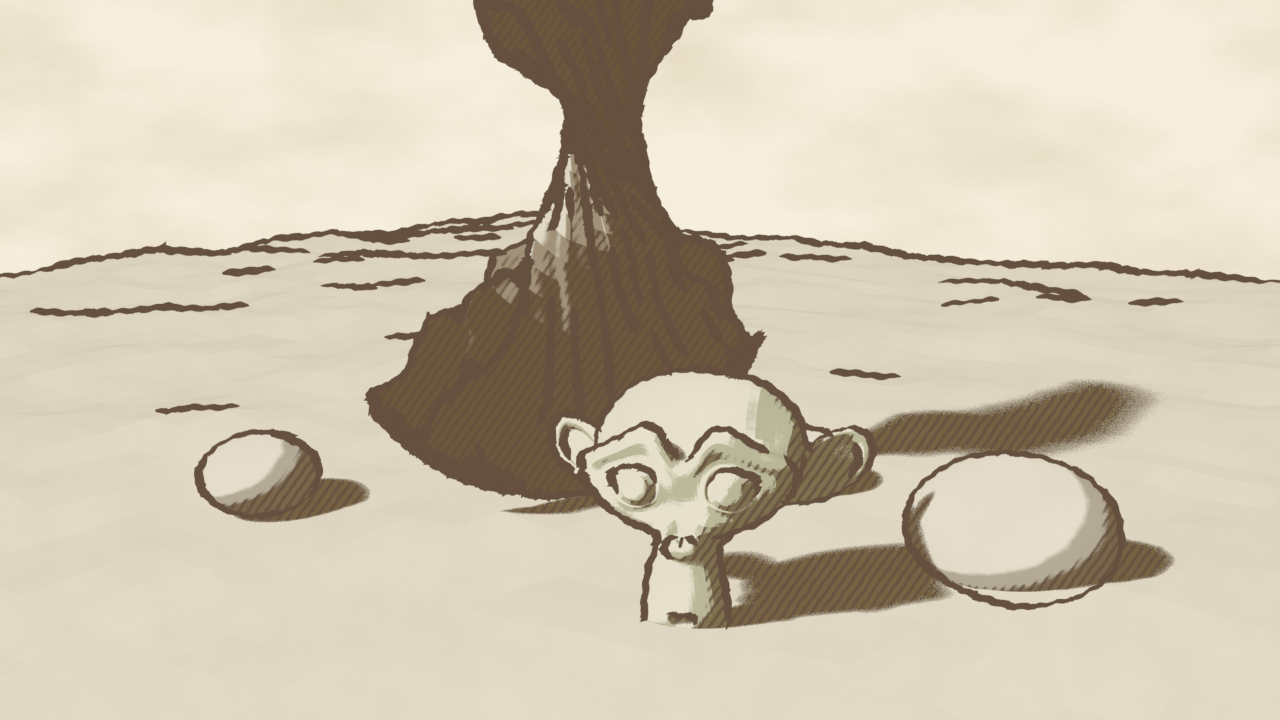
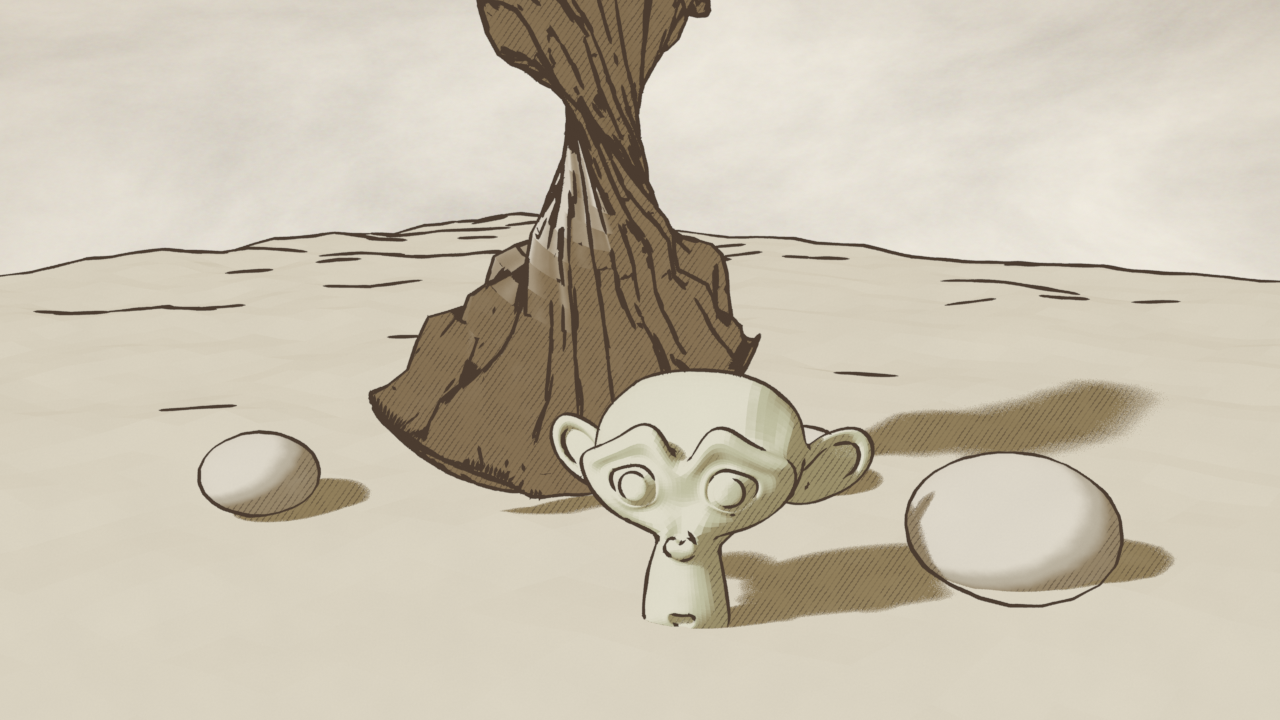
Rackham shader: thin sharp pen lines, softer wash, mottled background
- Freestyle: thinner near-black line with subtle wobble, suggestive
  contours for interior form lines
- Softer tonal bands and lighter umber shadows
- Finer, broken hatching limited to the deepest shadows
- World: mottled grey-beige wash with vignette

Claude-Session: https://claude.ai/code/session_01RtfpRx8b54UQLhfEZ4QY4B

diff --git a/blender/rackham_shader.py b/blender/rackham_shader.py
@@ -26,9 +26,9 @@ import bpy
 GROUP_NAME = "Rackham Ink & Wash"
 LINESTYLE_NAME = "Rackham Pen"
 
-PAPER = (0.92, 0.86, 0.72, 1.0)   # 黄ばんだヴェラム
-INK = (0.13, 0.08, 0.05, 1.0)     # 焦げ茶のインク
-UMBER = (0.42, 0.34, 0.24, 1.0)   # 影色（泥っぽいアンバー）
+PAPER = (0.90, 0.86, 0.77, 1.0)   # 黄ばんだヴェラム
+INK = (0.07, 0.045, 0.03, 1.0)    # ほぼ黒の焦げ茶インク
+UMBER = (0.62, 0.53, 0.40, 1.0)   # 影色（薄いアンバーのウォッシュ）
 
 
 # --------------------------------------------------------------------------
@@ -92,22 +92,23 @@ GROUP_INPUTS = [
     ("Paper Color", "NodeSocketColor", PAPER, None, None),
     ("Ink Color", "NodeSocketColor", INK, None, None),
     ("Shadow Tint", "NodeSocketColor", UMBER, None, None),
-    ("Desaturate", "NodeSocketFloat", 0.4, 0.0, 1.0),
-    ("Highlight Wash", "NodeSocketFloat", 0.3, 0.0, 1.0),
+    ("Desaturate", "NodeSocketFloat", 0.3, 0.0, 1.0),
+    ("Highlight Wash", "NodeSocketFloat", 0.45, 0.0, 1.0),
     ("Light Threshold", "NodeSocketFloat", 0.62, 0.0, 1.0),
-    ("Shadow Threshold", "NodeSocketFloat", 0.30, 0.0, 1.0),
-    ("Band Softness", "NodeSocketFloat", 0.05, 0.001, 0.5),
+    ("Shadow Threshold", "NodeSocketFloat", 0.34, 0.0, 1.0),
+    ("Band Softness", "NodeSocketFloat", 0.14, 0.001, 0.5),
     ("Wash Variation", "NodeSocketFloat", 0.22, 0.0, 1.0),
     ("Wash Scale", "NodeSocketFloat", 3.0, 0.0, 100.0),
     ("Granulation", "NodeSocketFloat", 0.12, 0.0, 1.0),
     ("Edge Darkening", "NodeSocketFloat", 0.35, 0.0, 1.0),
-    ("Hatch Threshold", "NodeSocketFloat", 0.36, 0.0, 1.0),
-    ("Cross Hatch Threshold", "NodeSocketFloat", 0.16, 0.0, 1.0),
-    ("Hatch Density", "NodeSocketFloat", 30.0, 1.0, 500.0),
-    ("Hatch Width", "NodeSocketFloat", 0.28, 0.0, 1.0),
-    ("Hatch Wobble", "NodeSocketFloat", 1.5, 0.0, 20.0),
-    ("Hatch Strength", "NodeSocketFloat", 0.85, 0.0, 1.0),
-    ("Paper Grain", "NodeSocketFloat", 0.10, 0.0, 1.0),
+    ("Hatch Threshold", "NodeSocketFloat", 0.26, 0.0, 1.0),
+    ("Cross Hatch Threshold", "NodeSocketFloat", 0.10, 0.0, 1.0),
+    ("Hatch Density", "NodeSocketFloat", 45.0, 1.0, 500.0),
+    ("Hatch Width", "NodeSocketFloat", 0.10, 0.0, 1.0),
+    ("Hatch Wobble", "NodeSocketFloat", 0.8, 0.0, 20.0),
+    ("Hatch Strength", "NodeSocketFloat", 0.6, 0.0, 1.0),
+    ("Hatch Breakup", "NodeSocketFloat", 0.6, 0.0, 1.0),
+    ("Paper Grain", "NodeSocketFloat", 0.07, 0.0, 1.0),
     ("Aspect", "NodeSocketFloat", 16 / 9, 0.1, 10.0),
 ]
 
@@ -211,7 +212,7 @@ def build_group():
         L.new(_math(nt, "MULTIPLY", I["Hatch Density"], scale_mul, -1100, y - 250),
               wave.inputs["Scale"])
         L.new(I["Hatch Wobble"], wave.inputs["Distortion"])
-        w_hi = _math(nt, "ADD", I["Hatch Width"], 0.12, -700, y - 200)
+        w_hi = _math(nt, "ADD", I["Hatch Width"], 0.05, -700, y - 200)
         line = _smooth(nt, wave.outputs["Fac"], I["Hatch Width"], w_hi, -500, y, invert=True)
         t_lo = _math(nt, "SUBTRACT", threshold, 0.04, -700, y - 300)
         t_hi = _math(nt, "ADD", threshold, 0.04, -700, y - 380)
@@ -221,6 +222,15 @@ def build_group():
     h1 = hatch_layer(math.radians(35), 1.0, I["Hatch Threshold"], -500)
     h2 = hatch_layer(math.radians(-50), 1.15, I["Cross Hatch Threshold"], -1000)
     ink = _math(nt, "MAXIMUM", h1, h2, -100, -700)
+    # ペンの途切れ：ストロークをノイズで分断
+    brk = _node(N, "ShaderNodeTexNoise", -300, -1300)
+    brk.inputs["Scale"].default_value = 30.0
+    brk.inputs["Detail"].default_value = 1.0
+    L.new(screen, brk.inputs["Vector"])
+    brk_m = _smooth(nt, brk.outputs["Fac"], 0.42, 0.52, -100, -1300)
+    brk_m = _math(nt, "SUBTRACT", 1.0, brk_m, 100, -1300)
+    brk_m = _math(nt, "MULTIPLY", brk_m, I["Hatch Breakup"], 250, -1300)
+    ink = _math(nt, "MULTIPLY", ink, _math(nt, "SUBTRACT", 1.0, brk_m, 400, -1300), -100, -850)
     ink = _math(nt, "MULTIPLY", ink, I["Hatch Strength"], 100, -700)
     col = _mix(nt, "MIX", ink, col, I["Ink Color"], 700, 600)
 
@@ -313,22 +323,46 @@ def setup_world(scene):
     nt.nodes.clear()
     N, L = nt.nodes, nt.links
 
-    tc = _node(N, "ShaderNodeTexCoord", -900, 0)
-    noise = _node(N, "ShaderNodeTexNoise", -700, 0)
-    noise.inputs["Scale"].default_value = 6.0
-    noise.inputs["Detail"].default_value = 8.0
+    # 背景：雲のようにムラのある灰ベージュのウォッシュ + 周辺の減光
+    tc = _node(N, "ShaderNodeTexCoord", -1300, 0)
+    noise = _node(N, "ShaderNodeTexNoise", -1100, 100)
+    noise.inputs["Scale"].default_value = 2.5
+    noise.inputs["Detail"].default_value = 6.0
+    noise.inputs["Roughness"].default_value = 0.65
+    noise.inputs["Distortion"].default_value = 0.4
     L.new(tc.outputs["Window"], noise.inputs["Vector"])
-    ramp = _node(N, "ShaderNodeValToRGB", -500, 0)
-    ramp.color_ramp.elements[0].position = 0.3
-    ramp.color_ramp.elements[0].color = (0.80, 0.72, 0.56, 1)   # 黄ばみ・シミ
-    ramp.color_ramp.elements[1].position = 0.6
+    ramp = _node(N, "ShaderNodeValToRGB", -900, 100)
+    ramp.color_ramp.elements[0].position = 0.35
+    ramp.color_ramp.elements[0].color = (0.66, 0.62, 0.55, 1)   # 灰色がかったシミ
+    ramp.color_ramp.elements[1].position = 0.68
     ramp.color_ramp.elements[1].color = PAPER
     L.new(noise.outputs["Fac"], ramp.inputs["Fac"])
+
+    grain = _node(N, "ShaderNodeTexNoise", -1100, -200)
+    grain.inputs["Scale"].default_value = 300.0
+    L.new(tc.outputs["Window"], grain.inputs["Vector"])
+    gr = _node(N, "ShaderNodeMix", -700, 0, data_type="RGBA", blend_type="OVERLAY")
+    gr.inputs[0].default_value = 0.15
+    L.new(ramp.outputs["Color"], gr.inputs[6])
+    L.new(grain.outputs["Color"], gr.inputs[7])
+
+    vdist = _node(N, "ShaderNodeVectorMath", -1100, -400, operation="DISTANCE")
+    vdist.inputs[1].default_value = (0.5, 0.5, 0.0)
+    L.new(tc.outputs["Window"], vdist.inputs[0])
+    vig = _node(N, "ShaderNodeMapRange", -900, -400, interpolation_type="SMOOTHSTEP")
+    vig.inputs["From Min"].default_value = 0.35
+    vig.inputs["From Max"].default_value = 0.8
+    vig.inputs["To Max"].default_value = 0.45
+    L.new(vdist.outputs["Value"], vig.inputs["Value"])
+    vm = _node(N, "ShaderNodeMix", -500, 0, data_type="RGBA", blend_type="MULTIPLY")
+    L.new(vig.outputs["Result"], vm.inputs[0])
+    L.new(gr.outputs[2], vm.inputs[6])
+    vm.inputs[7].default_value = (0.70, 0.64, 0.56, 1)
 
     # カメラには紙、ライティングには弱い暖色の環境光
     lp = _node(N, "ShaderNodeLightPath", -300, 300)
     bg_cam = _node(N, "ShaderNodeBackground", -200, 0)
-    L.new(ramp.outputs["Color"], bg_cam.inputs["Color"])
+    L.new(vm.outputs[2], bg_cam.inputs["Color"])
     bg_amb = _node(N, "ShaderNodeBackground", -200, -200)
     bg_amb.inputs["Color"].default_value = (0.9, 0.82, 0.65, 1)
     bg_amb.inputs["Strength"].default_value = 0.25
@@ -346,7 +380,10 @@ def setup_freestyle(scene):
     vl = bpy.context.view_layer
     fs = vl.freestyle_settings
     fs.mode = "EDITOR"
-    fs.crease_angle = math.radians(130)
+    fs.crease_angle = math.radians(135)
+    # 内側の形を描く線（襞・窪み）。重すぎる場合は False に
+    fs.use_suggestive_contours = True
+    fs.kr_derivative_epsilon = 0.05
     fs.use_smoothness = True
 
     ls_set = fs.linesets[0] if len(fs.linesets) else fs.linesets.new("LineSet")
@@ -358,6 +395,7 @@ def setup_freestyle(scene):
     ls_set.select_crease = True
     ls_set.select_external_contour = True
     ls_set.select_contour = True
+    ls_set.select_suggestive_contour = True
 
     old = bpy.data.linestyles.get(LINESTYLE_NAME)
     if old:
@@ -365,7 +403,7 @@ def setup_freestyle(scene):
     st = bpy.data.linestyles.new(LINESTYLE_NAME)
     ls_set.linestyle = st
     st.color = INK[:3]
-    st.thickness = 2.0
+    st.thickness = 1.1
     st.thickness_position = "CENTER"
     st.caps = "ROUND"
     st.chaining = "PLAIN"
@@ -375,20 +413,17 @@ def setup_freestyle(scene):
     m = st.geometry_modifiers.new("Sampling", "SAMPLING")
     m.sampling = 2.0
     m = st.geometry_modifiers.new("Overshoot", "BACKBONE_STRETCHER")
-    m.backbone_length = 4.0
+    m.backbone_length = 2.0
     m = st.geometry_modifiers.new("Wobble", "PERLIN_NOISE_1D")
-    m.frequency = 12.0
-    m.amplitude = 1.6
-    m.octaves = 3
-    m = st.geometry_modifiers.new("Tremor", "SINUS_DISPLACEMENT")
-    m.wavelength = 18.0
-    m.amplitude = 0.6
+    m.frequency = 8.0
+    m.amplitude = 0.4
+    m.octaves = 2
 
     # ペン先の強弱：入り抜き＋カリグラフィ＋ノイズ
     m = st.thickness_modifiers.new("Taper", "ALONG_STROKE")
     m.mapping = "CURVE"
     m.blend = "MULTIPLY"
-    m.value_min, m.value_max = 0.35, 1.0
+    m.value_min, m.value_max = 0.2, 1.0
     cm = m.curve
     c = cm.curves[0]
     c.points[0].location = (0.0, 0.0)
@@ -399,14 +434,14 @@ def setup_freestyle(scene):
     m = st.thickness_modifiers.new("Nib", "CALLIGRAPHY")
     m.blend = "MULTIPLY"
     m.orientation = math.radians(35)
-    m.thickness_min, m.thickness_max = 0.6, 1.4
+    m.thickness_min, m.thickness_max = 0.7, 1.3
     m = st.thickness_modifiers.new("Pressure", "NOISE")
     m.blend = "ADD"
-    m.amplitude = 0.8
-    m.period = 20.0
+    m.amplitude = 0.25
+    m.period = 15.0
     m = st.alpha_modifiers.new("Ink Flow", "NOISE")
     m.blend = "ADD"
-    m.amplitude = 0.3
+    m.amplitude = 0.2
     m.period = 40.0
 
 
